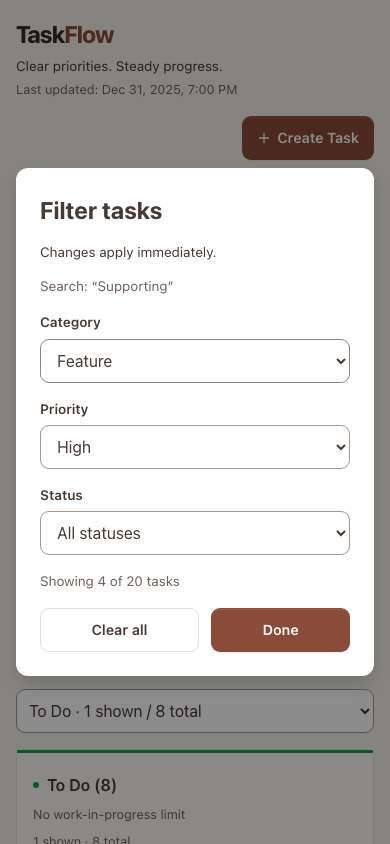
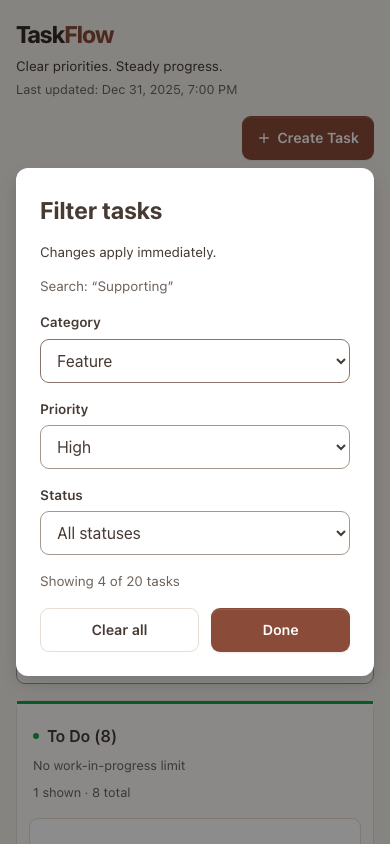
style: remove priority ordering explanation

Changed region(s): [[0.0308, 0.8009, 0.9538, 1.0]]

diff --git a/src/components/Board/Board.tsx b/src/components/Board/Board.tsx
@@ -289,7 +289,7 @@ export default function Board({ board, dispatch, feedback, overlays, ordering }:
             )}
           </>}
           toolbar={<BoardToolbar
-            ordering={ordering && <Field controlId="task-ordering-mode" label="Ordering"><select id="task-ordering-mode" aria-describedby="task-ordering-help" aria-controls="taskflow-board" value={orderingMode} onChange={event => { if (isOrderingMode(event.target.value)) ordering.selectMode(event.target.value); }}><option value="priority">Priority</option><option value="manual">Manual</option></select></Field>}
+            ordering={ordering && <Field controlId="task-ordering-mode" label="Ordering"><select id="task-ordering-mode" aria-describedby={orderingMode === "manual" ? "task-ordering-help" : undefined} aria-controls="taskflow-board" value={orderingMode} onChange={event => { if (isOrderingMode(event.target.value)) ordering.selectMode(event.target.value); }}><option value="priority">Priority</option><option value="manual">Manual</option></select></Field>}
             search={<SearchBar searchTerm={searchTerm} onSearchChange={setSearchTerm} />}
             filters={<FilterControls priorityFilter={priorityFilter} categoryFilter={categoryFilter} statusFilter={statusFilter}
               onPriorityChange={setPriorityFilter} onCategoryChange={setCategoryFilter} onStatusChange={setStatusFilter} />}
@@ -297,9 +297,7 @@ export default function Board({ board, dispatch, feedback, overlays, ordering }:
             filterCount={filterCount}
             activeCriteria={isFiltering} onReset={handleResetControls}
             resultSummary={<BoardResults total={totalTaskCount} matching={matchingTaskCount} filtered={isFiltering} />}
-            orderingHelp={ordering && <p id="task-ordering-help" className="toolbar-ordering-help">{orderingMode === "priority"
-              ? "High → Medium → Low. Equal priorities keep their arrival order in each stage."
-              : isFiltering ? "Manual order · Clear search and filters to reorder tasks within a stage."
+            orderingHelp={ordering && orderingMode === "manual" && <p id="task-ordering-help" className="toolbar-ordering-help">{isFiltering ? "Manual order · Clear search and filters to reorder tasks within a stage."
               : "Manual order · Arrange tasks within each stage. Switching modes keeps your positions."}</p>}
           />}
           overlays={<>

diff --git a/src/App.controls.test.tsx b/src/App.controls.test.tsx
@@ -113,10 +113,11 @@ it("reports matching and complete-board counts separately without reducing hidde
   expect(stage).toHaveTextContent("5 / 5Full"); expect(stage).toHaveTextContent("1 shown · 5 total");
 });
 
-it("exposes native groups, accurate priority help and a restrained count status", async () => {
+it("exposes native groups, selected ordering and a restrained count status", async () => {
   seed(); render(<App />);
   expect(screen.getByRole("group", { name: "Task filters" })).toBeVisible();
-  expect(screen.getByLabelText("Ordering")).toHaveAccessibleDescription("High → Medium → Low. Equal priorities keep their arrival order in each stage.");
+  expect(screen.getByLabelText("Ordering")).toHaveValue("priority");
+  expect(screen.getByLabelText("Ordering")).not.toHaveAttribute("aria-describedby");
   fireEvent.change(search(), { target: { value: "missing" } });
   fireEvent.change(search(), { target: { value: "Alpha" } });
   const status = screen.getByRole("status", { name: "Search results" });

diff --git a/docs/v2-board-controls.md b/docs/v2-board-controls.md
@@ -20,7 +20,7 @@ Search now has the same top-label rhythm as the selectors, an SVG search cue, ex
 
 A named list shows only the active query and non-All filters. Search is explicitly distinguished from category/priority/status. Each condition has a specific removal name and full tooltip; long labels truncate visually without losing their accessible name. Removal focuses the next/previous condition or the corresponding native control/mobile Filters trigger. Clear all is named “Clear all search and filters” and disabled when inactive. Clearing the whole scope returns focus to Search; within the modal it stays in the sheet on Priority. Both actions preserve Order, mobile stage, task records, priorities, positions and unrelated preferences.
 
-A single result summary distinguishes total board records from matches across every stage. The separate Workflow total was removed. The immediate visual count is hidden from the accessibility tree to avoid reading it again alongside the settled status. Visible counts update immediately; the dedicated Search results status settles for 300ms to avoid speaking each keystroke, independently of operation announcements. The sheet renders the same result summary while the background copy is absent. Priority help describes only the existing High/Medium/Low and stable arrival behavior. Manual help describes preserved placement and the filtered same-stage restriction; the existing mode selector, initialization, persistence and domain operations are unchanged.
+A single result summary distinguishes total board records from matches across every stage. The separate Workflow total was removed. The immediate visual count is hidden from the accessibility tree to avoid reading it again alongside the settled status. Visible counts update immediately; the dedicated Search results status settles for 300ms to avoid speaking each keystroke, independently of operation announcements. The sheet renders the same result summary while the background copy is absent. The Priority mode uses its selected label without extra explanatory copy, per owner review. Manual help describes preserved placement and the filtered same-stage restriction; the existing mode selector, initialization, persistence and domain operations are unchanged.
 
 A board-wide zero-result region keeps the stages and active conditions, explains that existing tasks remain, and offers Show all tasks. It is separate from a genuinely empty board and does not use error notifications or steal focus. On mobile, matches in other stages produce a distinct notice and a deliberate View [stage] action; the native stage selector remains independent of Status filtering, and navigation does not clear the query/filters.
 
@@ -52,3 +52,5 @@ Captured from the production build with isolated synthetic representative data (
  Real VoiceOver/speech, physical mobile keyboards, Safari/Firefox and browser zoom remain assembled verification in #47; Chromium keyboard, text enlargement and accessibility-name checks do not certify those environments.
 
 The approved #19/#96/#98 contracts were rechecked against the merged source: no fuzzy matching or dynamic score is implied, search speech alone is coalesced, Escape respects composition, the sheet-clear fallback remains Priority, and changing scope preserves the independent mobile stage. Clear all's accessible name includes its visible wording (“Clear all search and filters”) for speech-input consistency.
+
+Owner copy review: removed the Priority explanation and its description association, retaining Manual guidance. All 16 controls/toolbar tests, four production desktop/mobile controls journeys, lint, strict TypeScript and build passed. Screenshots were refreshed; 1440/768/390/320px and enlarged-text layout checks remained clear of overflow.
